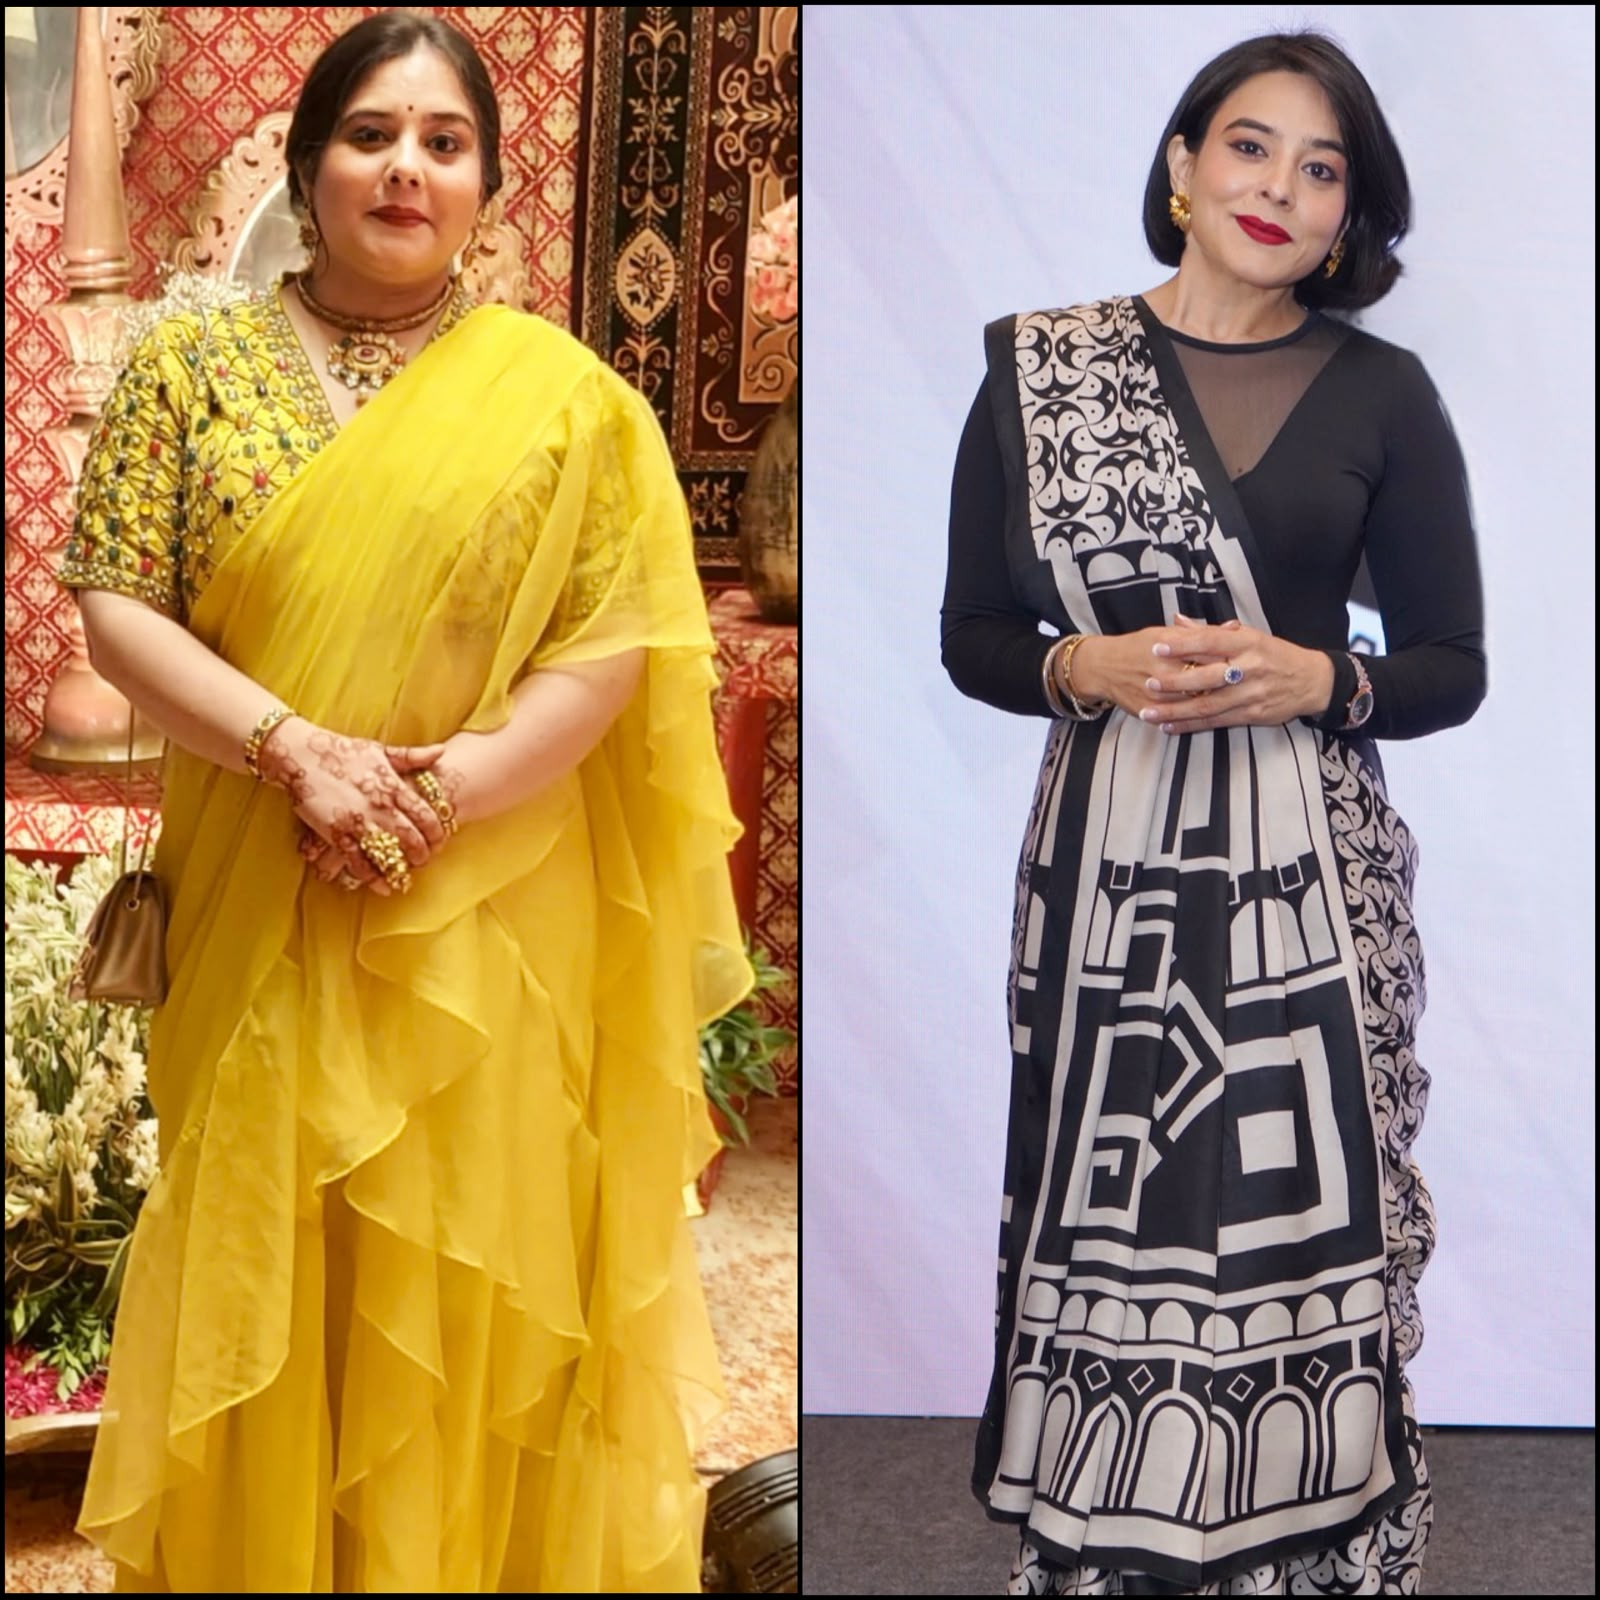
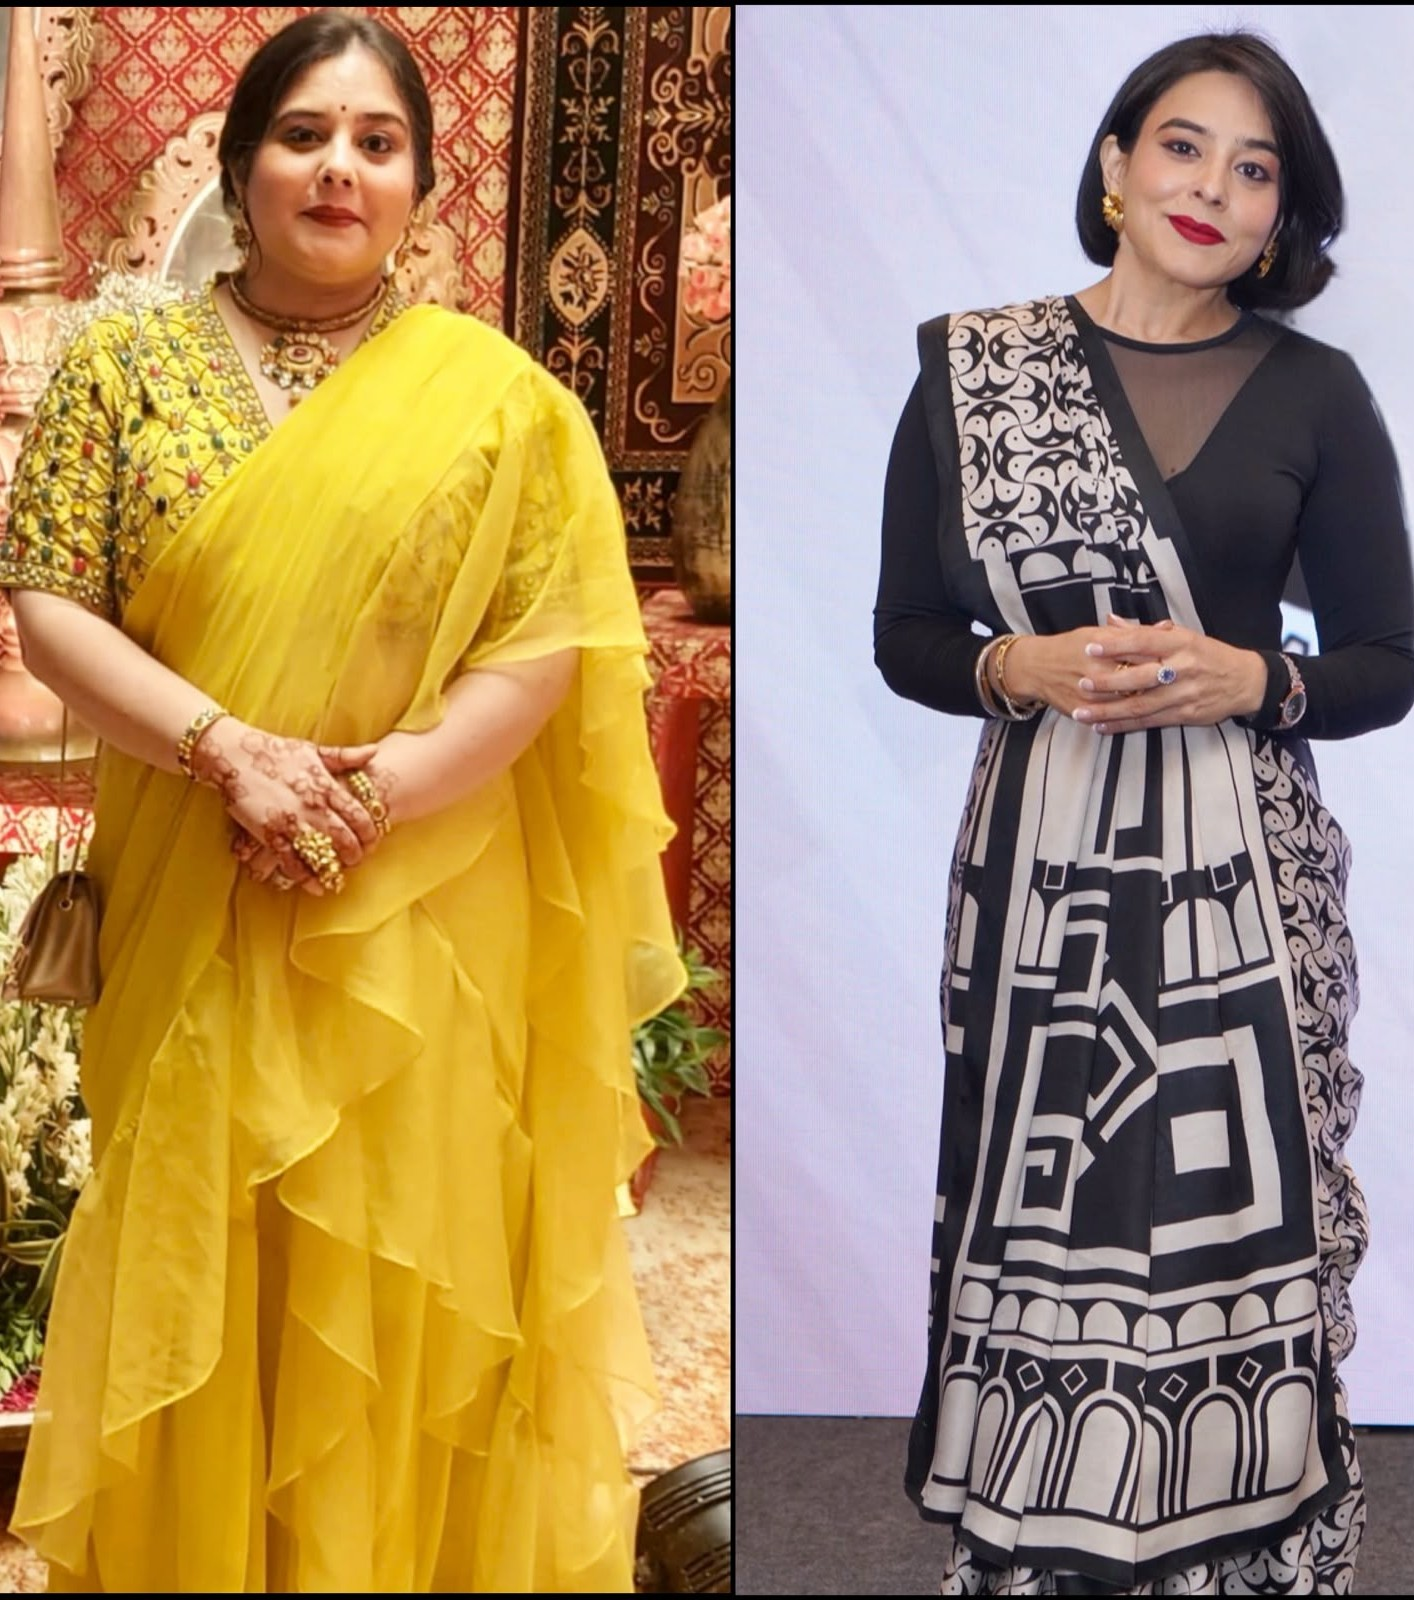
update

diff --git a/frontend/src/pages/HomePage.jsx b/frontend/src/pages/HomePage.jsx
@@ -639,19 +639,42 @@ export default function HomePage() {
 
               {/* Main Visual Display */}
 
-              <div className="transformation-visual-container">
+              <div
+                className={`transformation-visual-container ${transformationTab === "compare" ? "mode-compare" : "mode-single"}`}
+                style={{
+                  aspectRatio: transformationTab === "compare" ? "1 / 1" : "3 / 4",
+                  background: "#121214",
+                  borderRadius: "20px",
+                  overflow: "hidden",
+                }}
+              >
                 {transformationTab === "compare" && (
-                  <div className="transformation-split-view combined-mode">
-                    <span className="photo-phase-tag phase-before">BEFORE</span>
+                  <div
+                    className="transformation-split-view combined-mode"
+                    style={{
+                      width: "100%",
+                      height: "100%",
+                      background: "#121214",
+                      display: "flex",
+                      alignItems: "center",
+                      justifyContent: "center",
+                    }}
+                  >
+                    <span className="photo-phase-tag phase-before" style={{ top: 14, left: 14 }}>BEFORE</span>
 
-                    <span className="photo-phase-tag phase-after">AFTER</span>
+                    <span className="photo-phase-tag phase-after" style={{ top: 14, right: 14 }}>AFTER</span>
 
                     <img
                       src="/assets/images/collage.jpeg"
-
                       alt="Reshmi Verma Before and After 38 kg Health Transformation"
-
                       className="transformation-combined-img"
+                      style={{
+                        width: "100%",
+                        height: "100%",
+                        objectFit: "contain",
+                        objectPosition: "center center",
+                        display: "block",
+                      }}
                     />
                   </div>
                 )}
@@ -688,7 +711,10 @@ export default function HomePage() {
                 )}
 
                 {transformationTab === "after" && (
-                  <div className="transformation-single-view">
+                  <div
+                    className="transformation-single-view"
+                    style={{ background: "#1a1a1a" }}
+                  >
                     <span
                       className="photo-phase-tag phase-after"
                       style={{ top: 14, right: 14 }}
@@ -698,9 +724,14 @@ export default function HomePage() {
 
                     <img
                       src="/assets/images/After.PNG"
-
                       alt="Reshmi Verma After Transformation"
-
+                      style={{
+                        width: "100%",
+                        height: "100%",
+                        objectFit: "contain",
+                        objectPosition: "center center",
+                        display: "block",
+                      }}
                       onError={(e) => {
                         e.target.onerror = null;
                         e.target.src = "/assets/images/reshmi-after.jpg";

diff --git a/frontend/css/style.css b/frontend/css/style.css
@@ -5251,9 +5251,9 @@ h6 {
 
   height: 100%;
 
-  object-fit: cover;
+  object-fit: contain;
 
-  object-position: center top;
+  object-position: center center;
 
   display: block;
 
@@ -17985,11 +17985,26 @@ h6 {
 }
 
 
-/* ——— 3. Transformation Container — Better aspect-ratio on mobile ——— */
+/* ——— 3. Transformation Container — Dynamic aspect-ratio on mobile ——— */
+.transformation-visual-container.mode-compare,
+.transformation-visual-container:not(.mode-single) {
+  aspect-ratio: 1 / 1 !important;
+}
+
+.transformation-visual-container.mode-single {
+  aspect-ratio: 3 / 4 !important;
+}
+
 @media (max-width: 768px) {
 
-  .transformation-visual-container {
-    aspect-ratio: 4 / 5;
+  .transformation-visual-container.mode-compare,
+  .transformation-visual-container:not(.mode-single) {
+    aspect-ratio: 1 / 1 !important;
+    border-radius: 18px;
+  }
+
+  .transformation-visual-container.mode-single {
+    aspect-ratio: 3 / 4 !important;
     border-radius: 18px;
   }
 
@@ -18011,8 +18026,13 @@ h6 {
 
 @media (max-width: 480px) {
 
-  .transformation-visual-container {
-    aspect-ratio: 3 / 4;
+  .transformation-visual-container.mode-compare,
+  .transformation-visual-container:not(.mode-single) {
+    aspect-ratio: 1 / 1 !important;
+  }
+
+  .transformation-visual-container.mode-single {
+    aspect-ratio: 3 / 4 !important;
   }
 
 }
